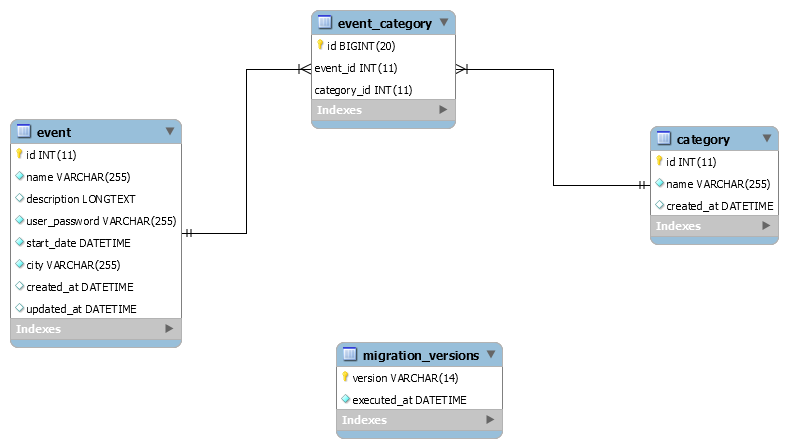
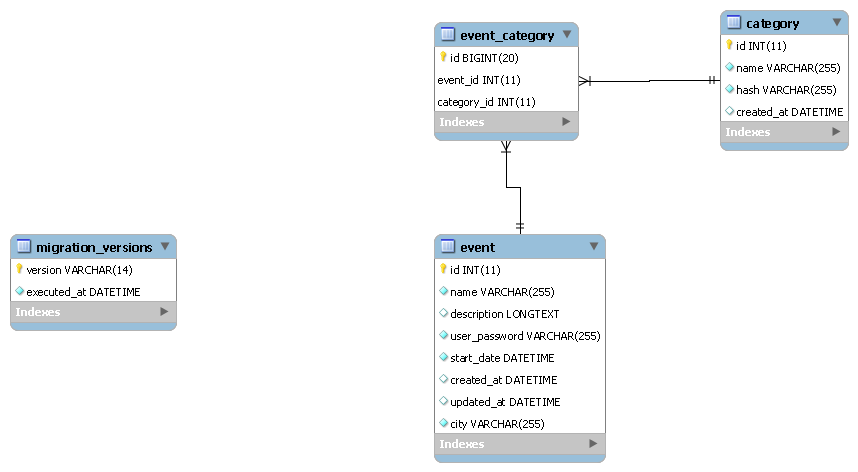
feature/event-category: updating db & adding repositories and entities updates

diff --git a/src/src/Entity/EventCategory.php b/src/src/Entity/EventCategory.php
@@ -1,0 +1,79 @@
+<?php
+
+namespace Sr\Entity;
+
+use Doctrine\ORM\Mapping as ORM;
+
+/**
+ * EventCategory
+ *
+ * @ORM\Table(name="event_category", indexes={@ORM\Index(name="event_to_category_key", columns={"event_id"}), @ORM\Index(name="category_to_event_key", columns={"category_id"})})
+ * @ORM\Entity
+ */
+class EventCategory
+{
+    /**
+     * @var int
+     *
+     * @ORM\Column(name="id", type="bigint", nullable=false)
+     * @ORM\Id
+     * @ORM\GeneratedValue(strategy="NONE")
+     */
+    private $id;
+
+    /**
+     * @var \Category
+     *
+     * @ORM\Id
+     * @ORM\GeneratedValue(strategy="NONE")
+     * @ORM\OneToOne(targetEntity="Category")
+     * @ORM\JoinColumns({
+     *   @ORM\JoinColumn(name="category_id", referencedColumnName="id")
+     * })
+     */
+    private $category;
+
+    /**
+     * @var \Event
+     *
+     * @ORM\Id
+     * @ORM\GeneratedValue(strategy="NONE")
+     * @ORM\OneToOne(targetEntity="Event")
+     * @ORM\JoinColumns({
+     *   @ORM\JoinColumn(name="event_id", referencedColumnName="id")
+     * })
+     */
+    private $event;
+
+    /**
+     * @return \Category
+     */
+    public function getCategory(): \Category
+    {
+        return $this->category;
+    }
+
+    /**
+     * @param \Category $category
+     */
+    public function setCategory(\Category $category): void
+    {
+        $this->category = $category;
+    }
+
+    /**
+     * @return \Event
+     */
+    public function getEvent(): \Event
+    {
+        return $this->event;
+    }
+
+    /**
+     * @param \Event $event
+     */
+    public function setEvent(\Event $event): void
+    {
+        $this->event = $event;
+    }
+}

diff --git a/src/src/Repository/CategoryRepository.php b/src/src/Repository/CategoryRepository.php
@@ -1,0 +1,52 @@
+<?php
+
+namespace Sr\Repository;
+
+use Doctrine\ORM\EntityRepository;
+use Sr\Entity\Category;
+
+class CategoryRepository extends EntityRepository implements RepositoryInterface
+{
+
+    /**
+     * @param array $data
+     * @param null $id
+     * @return mixed
+     * @throws \Doctrine\ORM\ORMException
+     * @throws \Doctrine\ORM\OptimisticLockException
+     */
+    public function save(array $data, $id = null)
+    {
+        if ($id) {
+            $category = Category::createForUpdate(
+                $id,
+                $data['name'],
+                $data['city'],
+                $data['start_date'],
+                $data['user_password'],
+                $data['description']
+            );
+        } else {
+            $category = Category::create();
+        }
+
+        $this->getEntityManager()->persist($category);
+        $this->getEntityManager()->flush();
+
+        return $category;
+    }
+
+    /**
+     * @param Category $category
+     * @return bool
+     * @throws \Doctrine\ORM\ORMException
+     * @throws \Doctrine\ORM\OptimisticLockException
+     */
+    public function remove(Category $category)
+    {
+        $this->getEntityManager()->remove($category);
+        $this->getEntityManager()->flush();
+
+        return true;
+    }
+}

diff --git a/src/src/Migrations/Version20200330062613.php b/src/src/Migrations/Version20200330062613.php
@@ -1,0 +1,36 @@
+<?php
+
+declare(strict_types=1);
+
+namespace DoctrineMigrations;
+
+use Doctrine\DBAL\Schema\Schema;
+use Doctrine\Migrations\AbstractMigration;
+
+/**
+ * Auto-generated Migration: Please modify to your needs!
+ */
+final class Version20200330062613 extends AbstractMigration
+{
+    public function getDescription() : string
+    {
+        return 'Update category table and add hash';
+    }
+
+    public function up(Schema $schema) : void
+    {
+        $sql = 'ALTER TABLE `category` 
+                    ADD COLUMN `hash` VARCHAR(255) NOT NULL,
+                    ADD INDEX `hash_key` (`hash` ASC)';
+
+        $this->addSql($sql);
+
+    }
+
+    public function down(Schema $schema) : void
+    {
+        $sql = 'ALTER TABLE `category` DROO COLUMN `hash`';
+
+        $this->addSql($sql);
+    }
+}

diff --git a/src/src/Repository/EventCategoryRepository.php b/src/src/Repository/EventCategoryRepository.php
@@ -1,0 +1,29 @@
+<?php
+
+namespace Sr\Repository;
+
+use Doctrine\ORM\EntityRepository;
+use Sr\Entity\EventCategory;
+
+class EventCategoryRepository extends EntityRepository implements RepositoryInterface
+{
+
+    /**
+     * @param array $data
+     * @param null $id
+     * @return EventCategory
+     * @throws \Doctrine\ORM\ORMException
+     * @throws \Doctrine\ORM\OptimisticLockException
+     */
+    public function save(array $data, $id = null)
+    {
+        $relation = new EventCategory();
+        $relation->setCategory($data['category']);
+        $relation->setEvent($data['event']);
+
+        $this->getEntityManager()->persist($relation);
+        $this->getEntityManager()->flush();
+
+        return $relation;
+    }
+}
